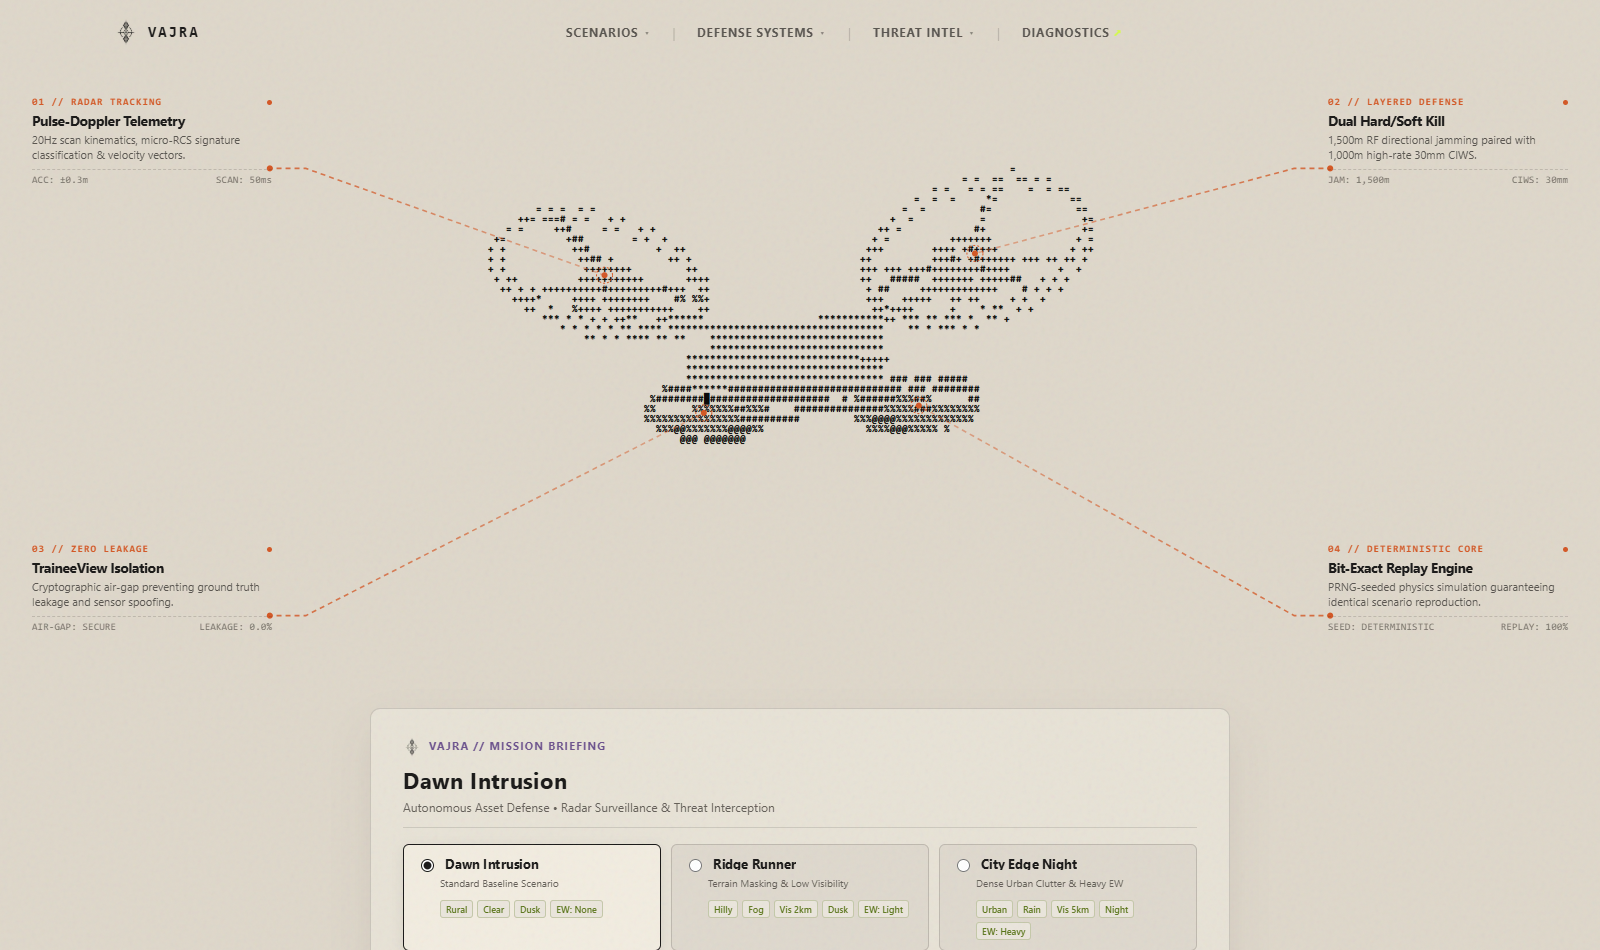
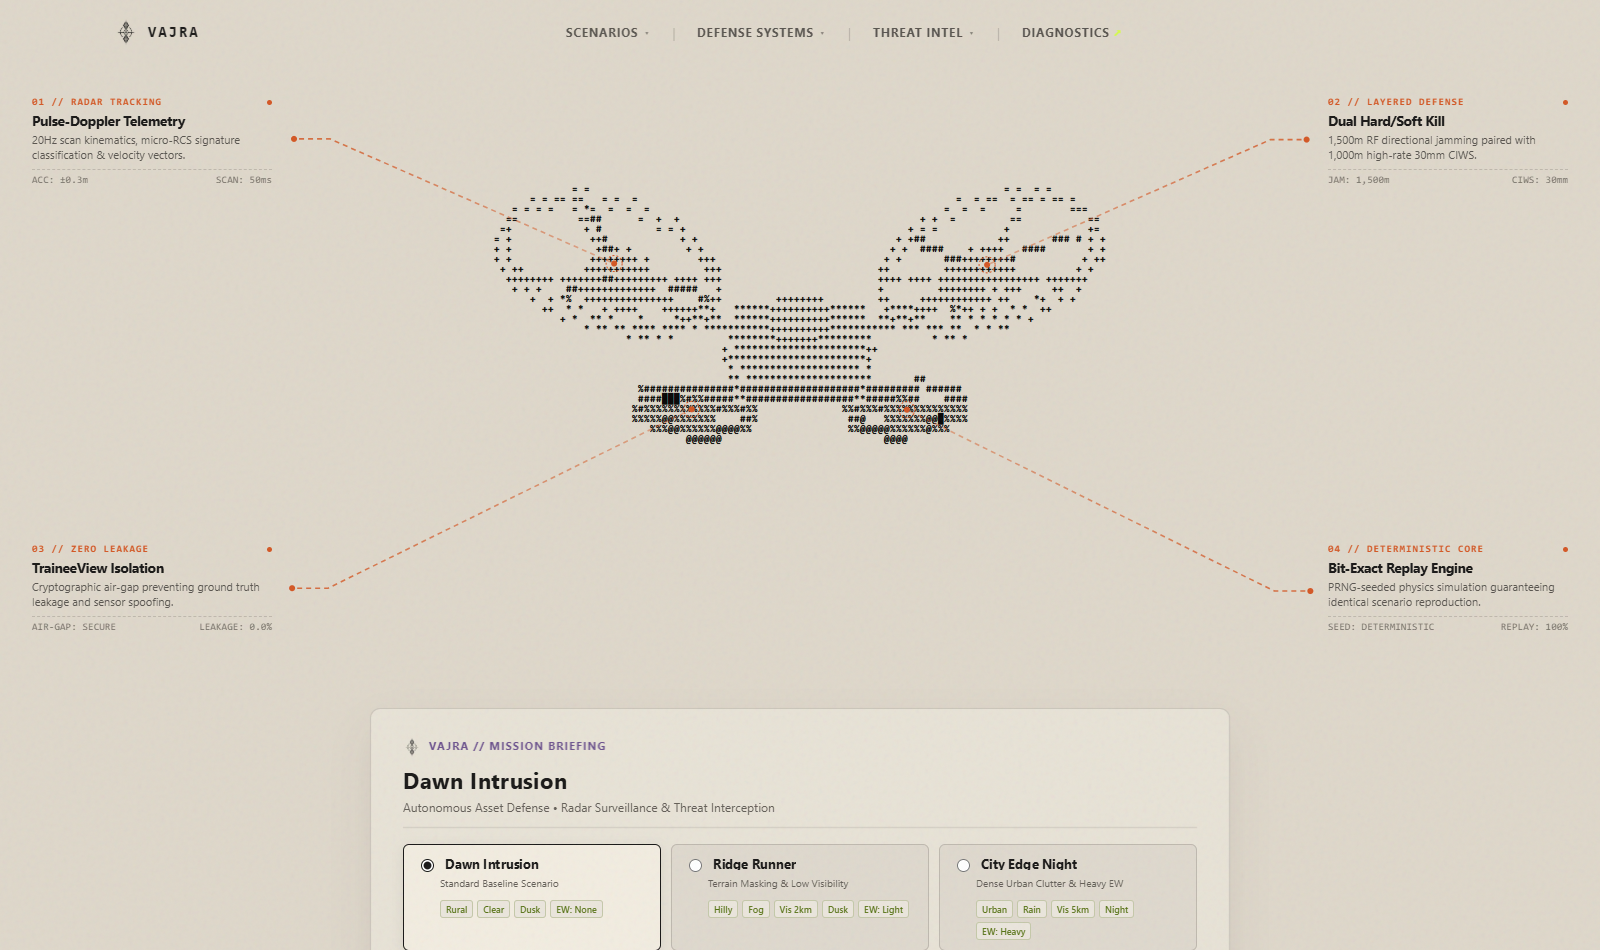
feat(hero): add 3D ASCII drone scatter-and-reassemble entrance animation on page load

Changed region(s): [[0.3125, 0.1832, 0.6875, 0.3663], [0.375, 0.3663, 0.625, 0.4884]]

diff --git a/src/app/components/DroneAsciiSimulation.tsx b/src/app/components/DroneAsciiSimulation.tsx
@@ -19,7 +19,77 @@ interface Point3D {
   kind?: 'body' | 'arm' | 'motor' | 'propeller' | 'camera' | 'antenna';
 }
 
+interface AssembledPoint3D extends Point3D {
+  scatterX: number;
+  scatterY: number;
+  scatterZ: number;
+  startProgress: number;
+  endProgress: number;
+}
+
 const ASCII_RAMP = ' .:-=+*#%@█';
+
+function createMulberry32(seed: number) {
+  let s = seed;
+  return () => {
+    s |= 0;
+    s = (s + 0x6d2b79f5) | 0;
+    let t = Math.imul(s ^ (s >>> 15), 1 | s);
+    t = (t + Math.imul(t ^ (t >>> 7), 61 | t)) ^ t;
+    return ((t ^ (t >>> 14)) >>> 0) / 4294967296;
+  };
+}
+
+function cubicEaseOut(t: number): number {
+  const f = Math.max(0, Math.min(1, t)) - 1.0;
+  return f * f * f + 1.0;
+}
+
+function createAssembledModel(basePoints: Point3D[]): AssembledPoint3D[] {
+  const rng = createMulberry32(0x5a18a); // Deterministic seed for reproducible cinematic scatter
+
+  return basePoints.map((pt) => {
+    let startProgress = 0.0;
+    let endProgress = 0.50;
+
+    if (pt.kind === 'arm') {
+      startProgress = 0.15;
+      endProgress = 0.68;
+    } else if (pt.kind === 'motor') {
+      startProgress = 0.28;
+      endProgress = 0.80;
+    } else if (pt.kind === 'camera' || pt.kind === 'antenna') {
+      startProgress = 0.30;
+      endProgress = 0.82;
+    }
+
+    // Spherical dispersion in 3D space + directional arm bias
+    const theta = rng() * Math.PI * 2;
+    const phi = (rng() - 0.5) * Math.PI * 0.75;
+    const dist = 2.4 + rng() * 3.8;
+
+    let biasX = 0;
+    let biasZ = 0;
+    if (Math.abs(pt.x) > 0.15 || Math.abs(pt.z) > 0.15) {
+      const dir = Math.atan2(pt.z, pt.x);
+      biasX = Math.cos(dir) * 1.8;
+      biasZ = Math.sin(dir) * 1.8;
+    }
+
+    const scatterX = Math.cos(phi) * Math.cos(theta) * dist + biasX;
+    const scatterY = Math.sin(phi) * (dist * 0.55); // Flatter Y distribution for cinematic widescreen
+    const scatterZ = Math.cos(phi) * Math.sin(theta) * dist + biasZ;
+
+    return {
+      ...pt,
+      scatterX,
+      scatterY,
+      scatterZ,
+      startProgress,
+      endProgress,
+    };
+  });
+}
 
 // Build the procedural 3D Tactical Drone Model with Rotor Guards & Fuselage
 function generateDroneModel(): Point3D[] {
@@ -215,7 +285,8 @@ export function DroneAsciiSimulation({
   const propAngleRef = useRef(0);
   const isDraggingRef = useRef(false);
   const lastMousePosRef = useRef({ x: 0, y: 0 });
-  const baseModelRef = useRef<Point3D[]>(generateDroneModel());
+  const baseModelRef = useRef<AssembledPoint3D[]>(createAssembledModel(generateDroneModel()));
+  const assemblyStartTimeRef = useRef<number | null>(null);
 
   // Mouse drag listeners
   const handleMouseDown = (e: React.MouseEvent) => {
@@ -304,8 +375,14 @@ export function DroneAsciiSimulation({
     // Extra pass after DOM settle
     const timer = setTimeout(updateLayoutBounds, 120);
 
+    const handleReassemble = () => {
+      assemblyStartTimeRef.current = performance.now();
+    };
+    window.addEventListener('mod:reassemble-drone', handleReassemble);
+
     return () => {
       window.removeEventListener('resize', handleResize);
+      window.removeEventListener('mod:reassemble-drone', handleReassemble);
       clearTimeout(timer);
     };
   }, []);
@@ -314,10 +391,20 @@ export function DroneAsciiSimulation({
     let animId: number;
     const armAngles = [Math.PI / 4, (3 * Math.PI) / 4, (5 * Math.PI) / 4, (7 * Math.PI) / 4];
     const armLength = 1.35;
+    const ASSEMBLY_DURATION = 1.8; // Duration in seconds for full scatter-and-reassemble sequence
 
-    const render = () => {
+    const render = (now: number) => {
+      const currentTime = typeof now === 'number' && now > 0 ? now : performance.now();
+      if (assemblyStartTimeRef.current === null) {
+        assemblyStartTimeRef.current = currentTime;
+      }
+      const elapsed = Math.max(0, (currentTime - assemblyStartTimeRef.current) / 1000);
+      const globalProgress = Math.min(1.0, elapsed / ASSEMBLY_DURATION);
+
       if (isRotating && !isDraggingRef.current) {
-        anglesRef.current.yaw += rotationSpeed;
+        // High-tech swirling vortex during assembly that gently settles into stable rotation speed
+        const swirlBoost = (1.0 - globalProgress) * 0.018;
+        anglesRef.current.yaw += rotationSpeed + swirlBoost;
       }
       propAngleRef.current += 0.35; // Rotor spinning
 
@@ -325,32 +412,71 @@ export function DroneAsciiSimulation({
       const dynamicProps: Point3D[] = [];
       const propRadius = 0.48;
 
-      armAngles.forEach((angle, idx) => {
-        const mx = armLength * Math.cos(angle);
-        const mz = armLength * Math.sin(angle);
-        const my = 0.08;
-        const dir = idx % 2 === 0 ? 1 : -1;
-        const currentPropAngle = propAngleRef.current * dir;
+      // Propellers materialize as motors assemble (progress 0.50 -> 1.0)
+      const propProgress = Math.min(1.0, Math.max(0, (globalProgress - 0.50) / 0.50));
+      const propEase = cubicEaseOut(propProgress);
 
-        // Tri-blade propeller (120 degree separation)
-        for (let b = 0; b < 3; b++) {
-          const bladeAngle = currentPropAngle + (b * (2 * Math.PI)) / 3;
-          const cosB = Math.cos(bladeAngle);
-          const sinB = Math.sin(bladeAngle);
+      if (propEase > 0.02) {
+        armAngles.forEach((angle, idx) => {
+          const mx = armLength * Math.cos(angle);
+          const mz = armLength * Math.sin(angle);
+          const my = 0.08;
+          const dir = idx % 2 === 0 ? 1 : -1;
+          const currentPropAngle = propAngleRef.current * dir;
 
-          for (let r = 0.05; r <= propRadius; r += 0.035) {
-            dynamicProps.push({
-              x: mx + r * cosB,
-              y: my + (r / propRadius) * 0.02,
-              z: mz + r * sinB,
-              kind: 'propeller',
-            });
+          const currentPropRadius = propRadius * propEase;
+
+          // Tri-blade propeller (120 degree separation)
+          for (let b = 0; b < 3; b++) {
+            const bladeAngle = currentPropAngle + (b * (2 * Math.PI)) / 3;
+            const cosB = Math.cos(bladeAngle);
+            const sinB = Math.sin(bladeAngle);
+
+            for (let r = 0.05; r <= currentPropRadius; r += 0.035) {
+              dynamicProps.push({
+                x: mx + r * cosB,
+                y: my + (r / propRadius) * 0.02,
+                z: mz + r * sinB,
+                kind: 'propeller',
+              });
+            }
           }
-        }
-      });
+        });
+      }
 
-      // Combine base model + dynamic spinning props
-      const allPoints = [...baseModelRef.current, ...dynamicProps];
+      // Compute 3D point positions with scatter-and-reassemble interpolation
+      const basePoints = baseModelRef.current;
+      const computedBasePoints: Point3D[] = new Array(basePoints.length);
+
+      if (globalProgress >= 1.0) {
+        // Fully assembled: direct fast pass
+        for (let i = 0; i < basePoints.length; i++) {
+          computedBasePoints[i] = basePoints[i]!;
+        }
+      } else {
+        // Assembling: interpolate each point from its scattered coordinates towards target solid drone position
+        for (let i = 0; i < basePoints.length; i++) {
+          const pt = basePoints[i]!;
+          let localT = 0;
+          if (globalProgress >= pt.endProgress) {
+            localT = 1.0;
+          } else if (globalProgress > pt.startProgress) {
+            localT = (globalProgress - pt.startProgress) / (pt.endProgress - pt.startProgress);
+          }
+          const ease = cubicEaseOut(localT);
+          const inv = 1.0 - ease;
+
+          computedBasePoints[i] = {
+            x: pt.x + pt.scatterX * inv,
+            y: pt.y + pt.scatterY * inv,
+            z: pt.z + pt.scatterZ * inv,
+            kind: pt.kind,
+          };
+        }
+      }
+
+      // Combine assembled base model + dynamic spinning props
+      const allPoints = [...computedBasePoints, ...dynamicProps];
 
       // Grid dimensions (cols x rows) - Optimized for wide cinematic hero display
       const cols = 116;
@@ -418,6 +544,13 @@ export function DroneAsciiSimulation({
         x: preLeft + (brPt.screenX / cols) * preWidth,
         y: preTop + (brPt.screenY / rows) * preHeight,
       };
+
+      // HUD Leader Lines and reticles fade in once rotors dock into place (progress 0.70 -> 1.0)
+      const hudProgress = Math.min(1.0, Math.max(0, (globalProgress - 0.70) / 0.30));
+      const hudOpacity = cubicEaseOut(hudProgress);
+      if (svgRef.current) {
+        svgRef.current.style.opacity = String(hudOpacity);
+      }
 
       // Update SVG HUD Leader Lines (Seamless Dogleg Orthogonal Geometry)
       if (lineTlRef.current) {
@@ -508,7 +641,12 @@ export function DroneAsciiSimulation({
               // Minimum base ink is index 4 ('=') so even far-away surfaces have solid dark ink presence
               const depthNorm = Math.max(0, Math.min(1, (z2 + 1.6) / 3.2));
               const minInk = 4;
-              const rampIdx = minInk + Math.floor(depthNorm * (ASCII_RAMP.length - 1 - minInk));
+              let rampIdx = minInk + Math.floor(depthNorm * (ASCII_RAMP.length - 1 - minInk));
+              if (globalProgress < 0.65) {
+                // Fragmented lighter ASCII glyphs while scattered (., :, -, +, *)
+                const fragmentFactor = Math.floor((0.65 - globalProgress) * 4);
+                rampIdx = Math.max(1, rampIdx - fragmentFactor);
+              }
               charIndex = pt.kind === 'propeller' ? Math.min(ASCII_RAMP.length - 1, rampIdx + 2) : rampIdx;
             }
 
@@ -539,6 +677,10 @@ export function DroneAsciiSimulation({
       onMouseMove={handleMouseMove}
       onMouseUp={handleMouseUp}
       onMouseLeave={handleMouseUp}
+      onDoubleClick={() => {
+        assemblyStartTimeRef.current = performance.now();
+      }}
+      title="VAJRA // Double-click to re-assemble drone"
       style={{
         position: 'relative',
         width: '100%',
